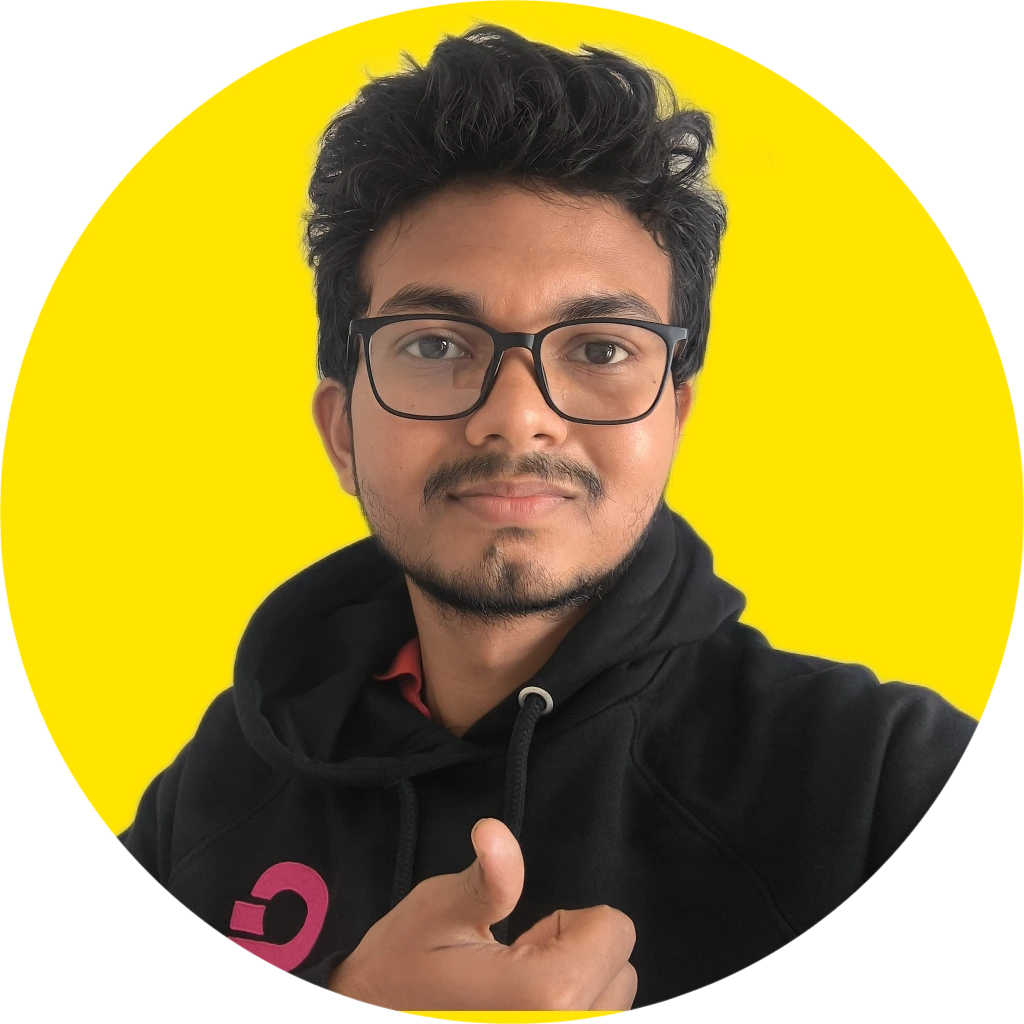
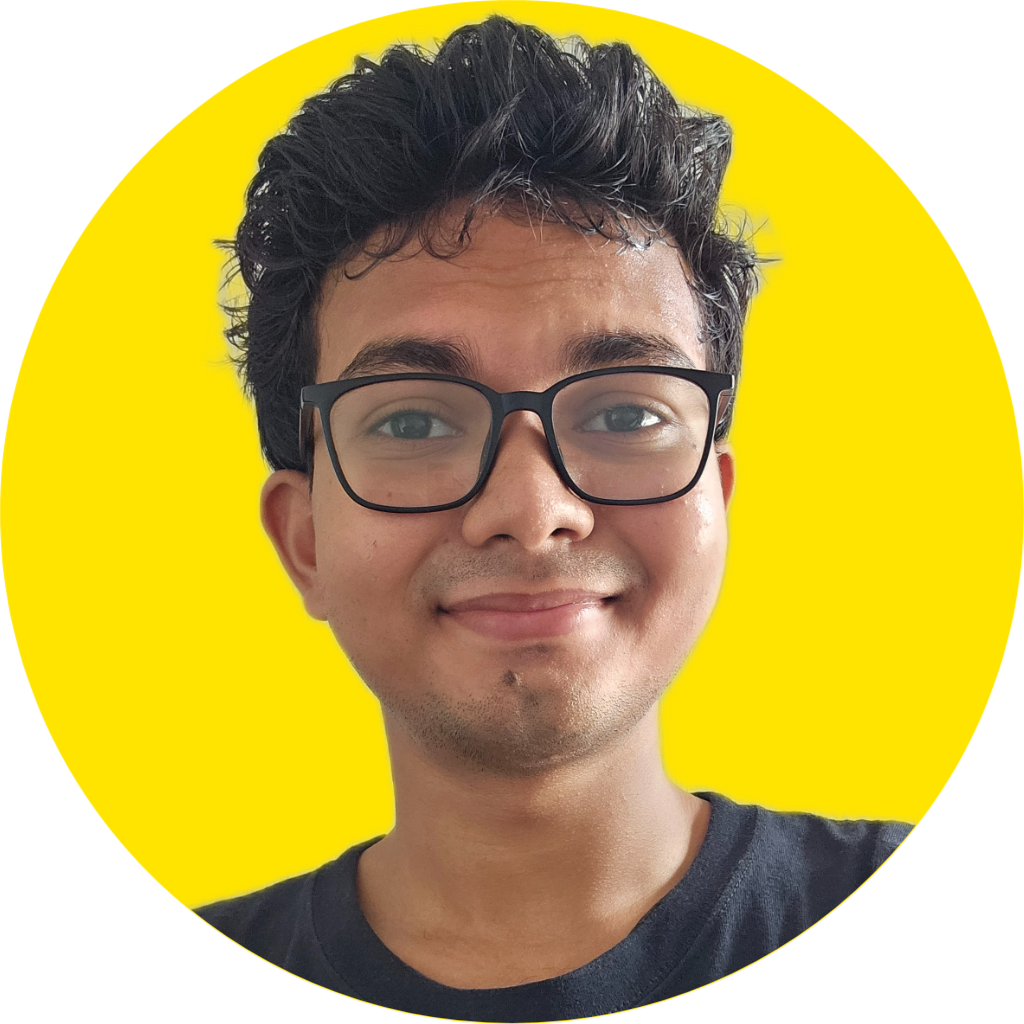
nothing much just upgraeded the pfp

diff --git a/src/data/resume.tsx b/src/data/resume.tsx
@@ -14,7 +14,7 @@ export const DATA = {
     "A Full Stack Developer from India, Code is an art 🎨 be the artist!",
   summary:
     "A Computer Science graduate from [Trident Academy Of Technology](https://tat.ac.in/), specialize in modern web development and am actively working on [open-source projects](https://github.com/StarKnightt). I'm passionate about creating impactful solutions and sharing knowledge through my [technical blog](https://prasen.dev/blog) and [YouTube](https://youtube.com/@Star_Knight12) channel as well as on [X(Twitter)](https://x.com/Star_Knight12/highlights) too | Free-lancer.",
-  avatarUrl: "/prasen(1).webp",
+  avatarUrl: "/hi.webp",
   skills: [
     "React",
     "Next.js",
